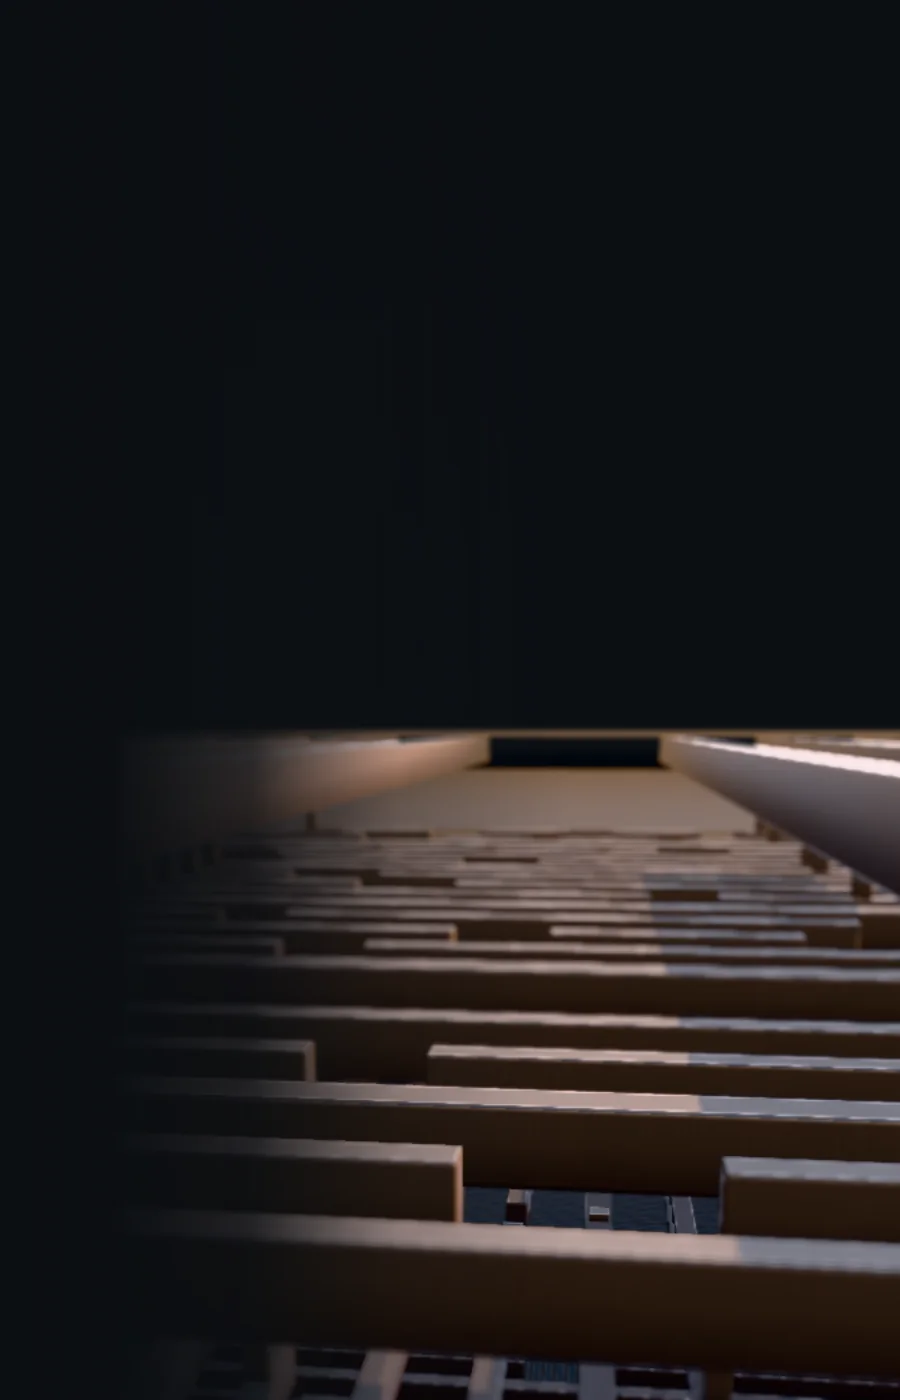
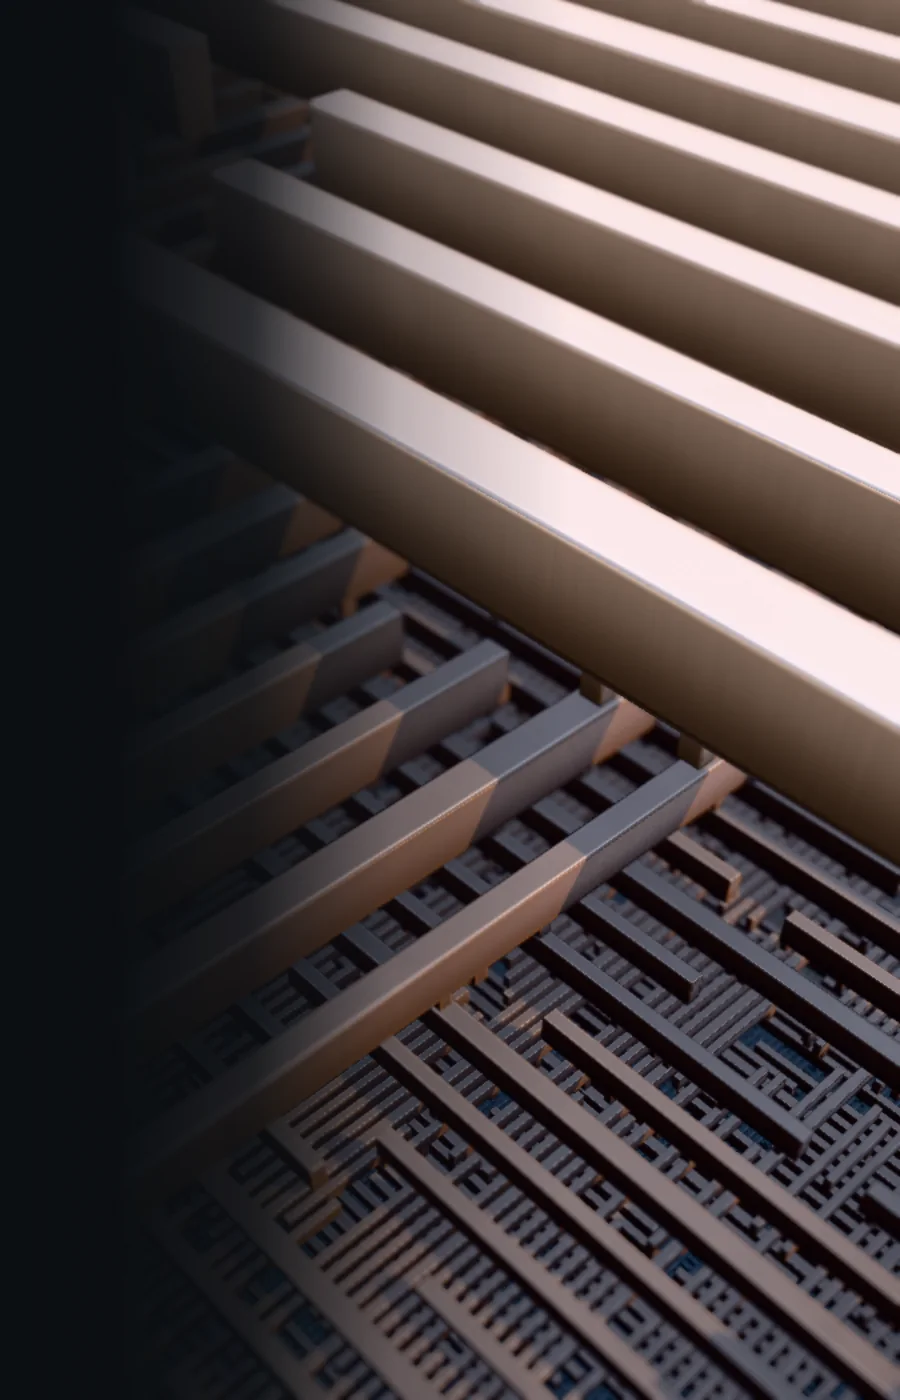
Chapter 03 reveal: a steep oblique view onto many levels instead of the low skyline
About 52 degrees down from above the stack, copper above steel, openings several levels deep,
the pattern running to the frame edge in haze. The upper levels are deposited only once the
climbing camera is above them and the top straps after the reveal, which also removes the near
bars on the way up (nearest metal now stays beyond 0.55 of the focus distance).

diff --git a/src/scripts/scenes/scale-math.js b/src/scripts/scenes/scale-math.js
@@ -57,7 +57,9 @@ export const STACK_TOP = LEVELS.at(-1).top;
  * first, the order of fabrication; the two thick top levels rise around the camera as it climbs
  * into the reveal. growth(u) -> array of 0..1 per level.
  */
-export const BUILD = [.19, .21, .23, .25, .27, .29, .31, .33, .35, .4, .46].map((start, i) => [start, start + (i < 9 ? .05 : .07)]);
+// The upper levels are deposited only once the climbing camera is above them, so nothing grows
+// around the lens; the top straps come after the reveal, as the camera pulls out.
+export const BUILD = [.19, .21, .23, .25, .27, .29, .31, .33, .47, .53, .63].map((start, i) => [start, start + (i < 8 ? .05 : .06)]);
 export function growth(u) {
   return BUILD.map(([a, b]) => smoothstep(a, b, u));
 }
@@ -93,11 +95,10 @@ export function keyframes(framing = 'desktop') {
     // Above the deposition front, looking down across the crossing middle levels; the thick top
     // levels then rise around the camera as it climbs.
     { target: [-200, 100, 700], d: 2000, az: .75, el: .78, fov: m ? 52 : 40, shift: m ? [0, -.25] : [.16, 0], aperture: .035 },
-    // Reveal: just above the top straps, about 15 degrees down, looking along them: they recede as
-    // rails to a horizon in the upper third, the nearest one quiet on the left under the heading;
-    // between them the eye drops past the middle levels to the fine ones. The low sun from the right
-    // throws long shadows of the straps across the level below.
-    { target: [15000, 4500, 5000], d: 18000, az: 1.45, el: .26, fov: m ? 60 : 50, shift: m ? [0, -.5] : [.2, -.3], aperture: .012 },
+    // Reveal: in the spirit of the "inside the layers" frame, from higher up: a steep oblique view
+    // (about 52 degrees down) onto many levels at once, copper straps above cool steel below,
+    // openings dropping several levels, the pattern repeating to the far edge in haze.
+    { target: [1200, 900, 1400], d: 12000, az: .75, el: .9, fov: m ? 56 : 46, shift: m ? [0, -.45] : [.2, -.04], aperture: .02 },
     // The die corner: pad ring, seal ring, floorplan blocks, the real stack somewhere inside.
     { target: [-1.2e5, 2.6e5, STACK_TOP], d: m ? 2.4e6 : 1.6e6, az: .9, el: .78, fov: m ? 36 : 30, shift: m ? [0, -.55] : [.24, 0], aperture: .008 },
     { target: [(DIE.x[0] + DIE.x[1]) / 2, (DIE.y[0] + DIE.y[1]) / 2, 0], d: m ? 1.6e7 : 9e6, az: 1.0, el: .95, fov: m ? 36 : 30, shift: m ? [0, -.5] : [.24, 0], aperture: .012 },

diff --git a/docs/ART_DIRECTION.md b/docs/ART_DIRECTION.md
@@ -146,10 +146,10 @@ w skali logarytmicznej):
 - **0,16, powtórzenie:** rzędy żeber i bramek do horyzontu.
 - **0,3, wewnątrz warstw:** nad frontem osadzania, w dół na krzyżujące się poziomy: chłodne, stalowe
   niskie poziomy w głębi, miedziane środkowe w niskim słońcu. Poziomy narastają w kolejności produkcji.
-- **0,6, odsłona:** tuż nad najwyższymi pasami zasilania, ok. 15° w dół, wzdłuż nich: pasy uciekają
-  do horyzontu w górnej trzeciej kadru, mgła przy horyzoncie jaśniejsza i cieplejsza (niskie słońce),
-  wyżej tło strony. Najbliższy pas nisko po lewej, pod nagłówkiem. Niskie słońce z prawej, silniejsze
-  tylko w okolicy odsłony. Dopiero tu pojawia się nagłówek „To nie jest miasto.”.
+- **0,6, odsłona:** w duchu klatki 0,3, ale wyżej: stromo, ok. 52° w dół, na wiele poziomów naraz:
+  miedziane linie u góry, stalowe i grafitowe niżej, prześwity w dół o kilka poziomów, wzór aż po
+  brzeg kadru w mgle. Wyższe poziomy osadzają się dopiero, gdy kamera jest już nad nimi (żadnej
+  belki przy obiektywie), najwyższe pasy dopiero po odsłonie. Tu pojawia się nagłówek.
 - **0,8, róg chipu:** pierścień padów, pierścienie uszczelniające, bloki; **1, wyjście:** chip jako
   obiekt: bloki pamięci z delikatnym połyskiem zależnym od kąta, logika jako rzędy komórek wypełnione
   prawdziwym routingiem w zmniejszeniu, bloki analogowe/IO przy krawędzi, siatka zasilania co 100 µm
